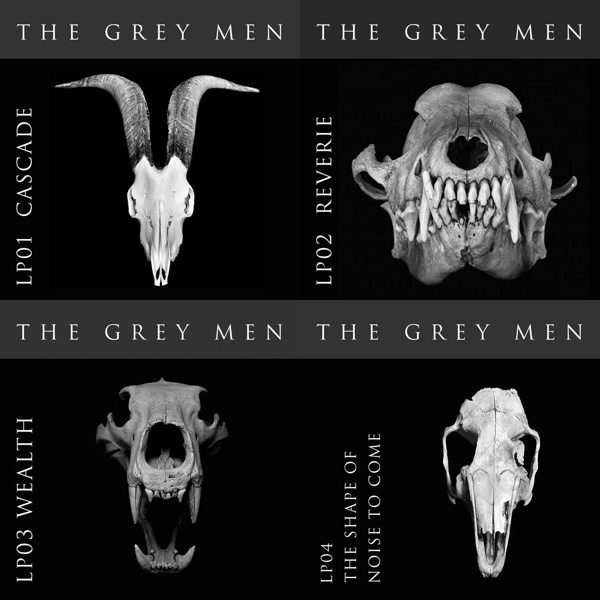
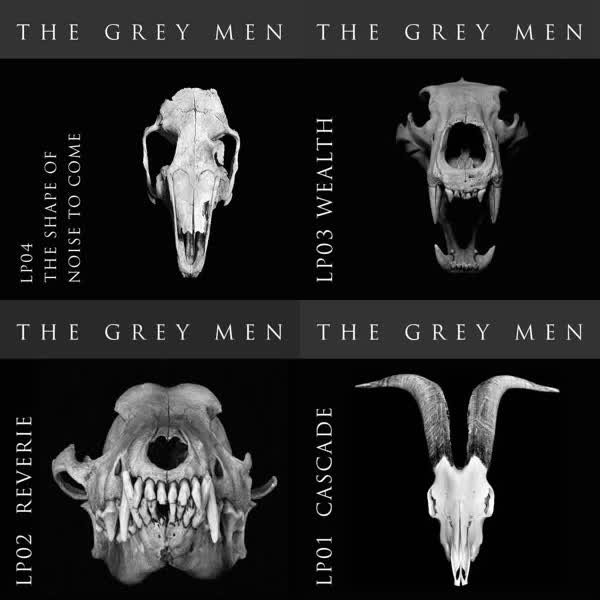
Reverse LP grid order (LP04 top-left), rename AI Review to Noise 1 / Reverie

diff --git a/src/content/projects/noise-1-reverie.md b/src/content/projects/noise-1-reverie.md
@@ -1,5 +1,5 @@
 ---
-title: "AI Review"
+title: "Noise 1 / Reverie"
 category: art
 order: 6
 year: "2024"
